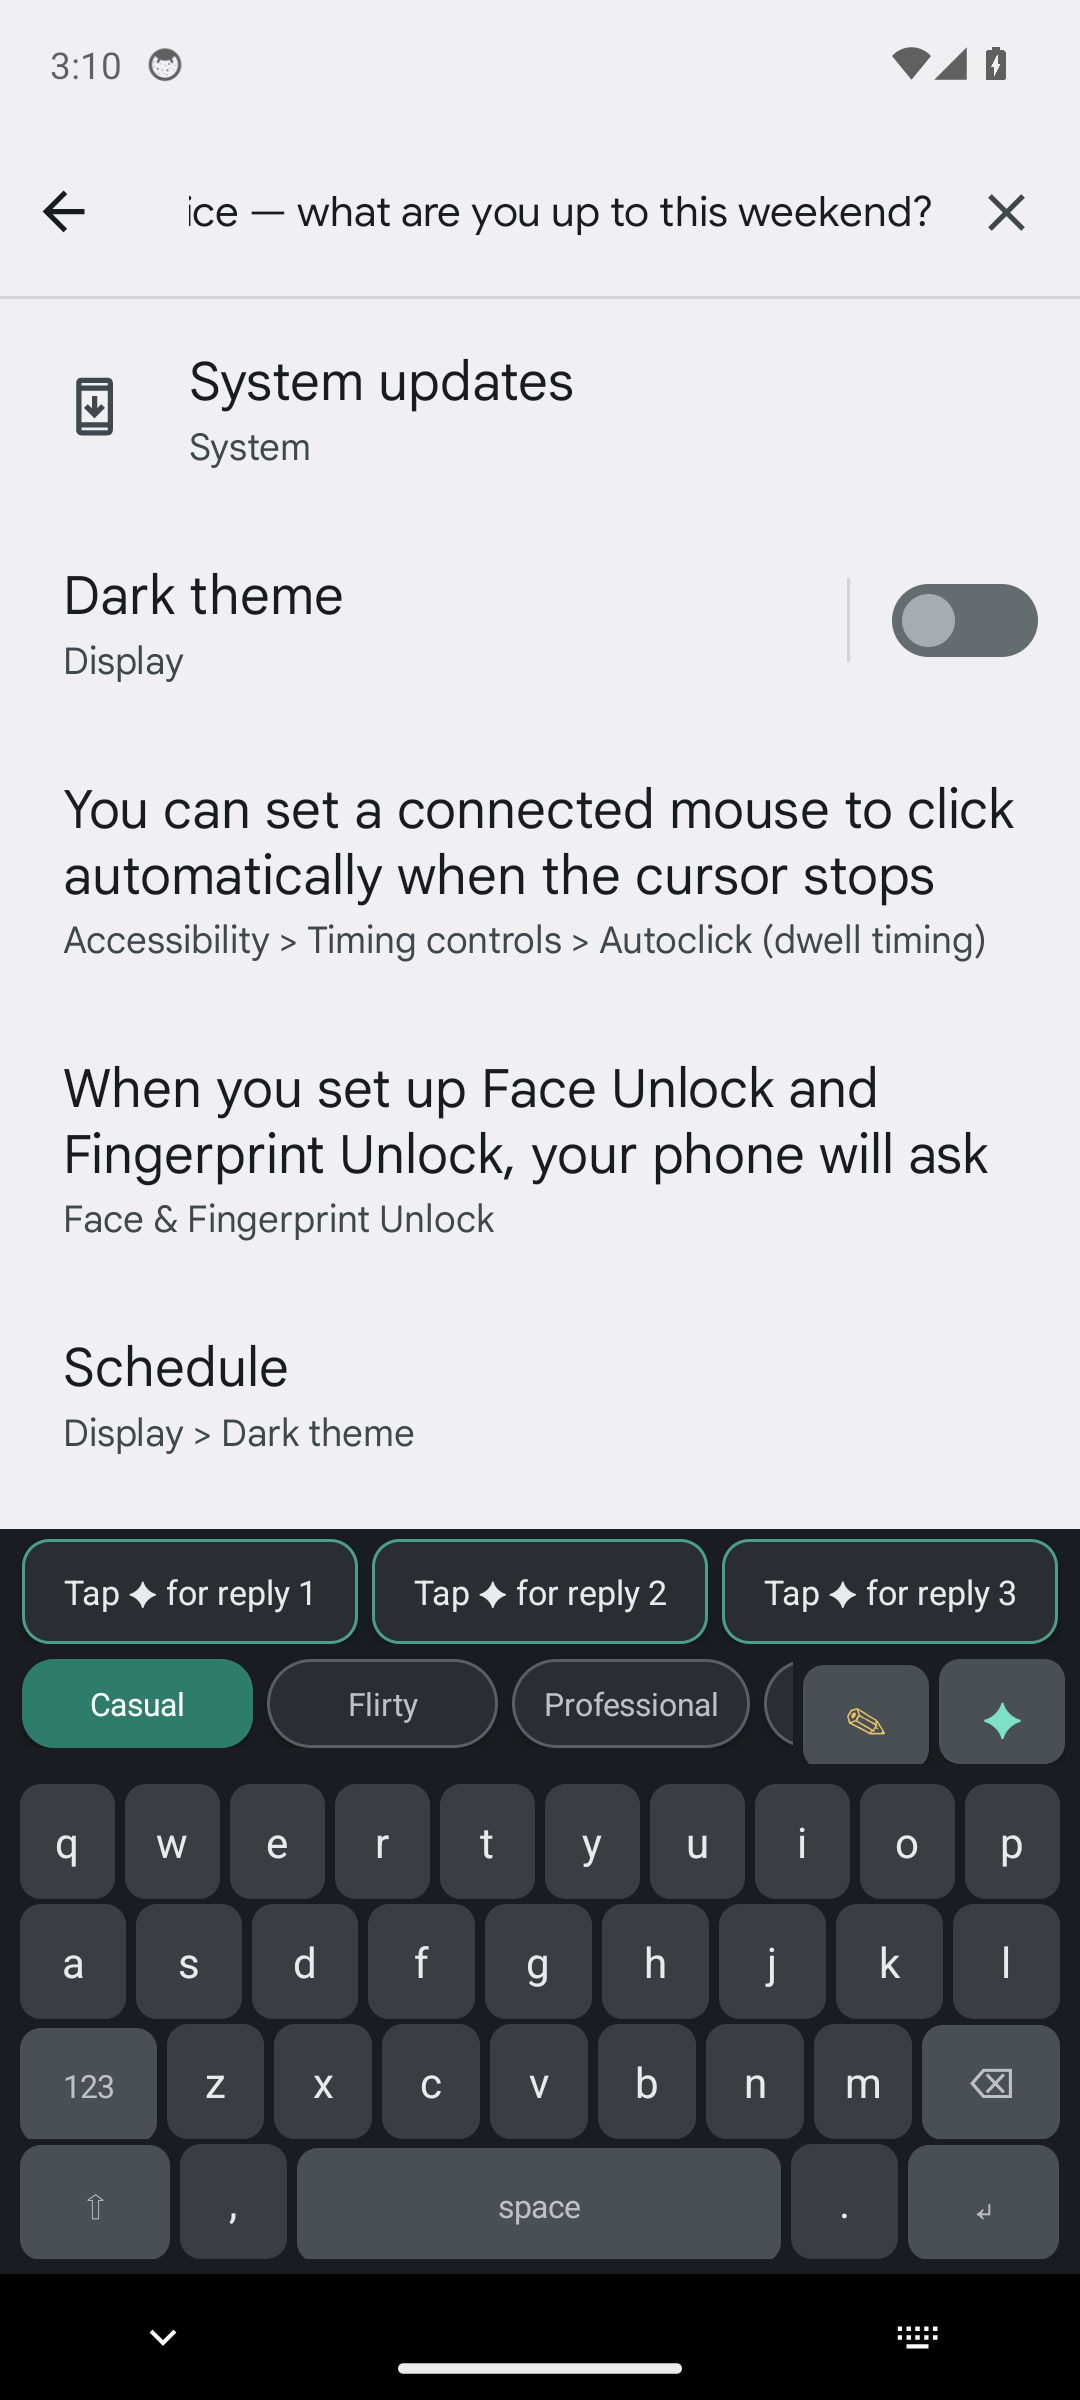
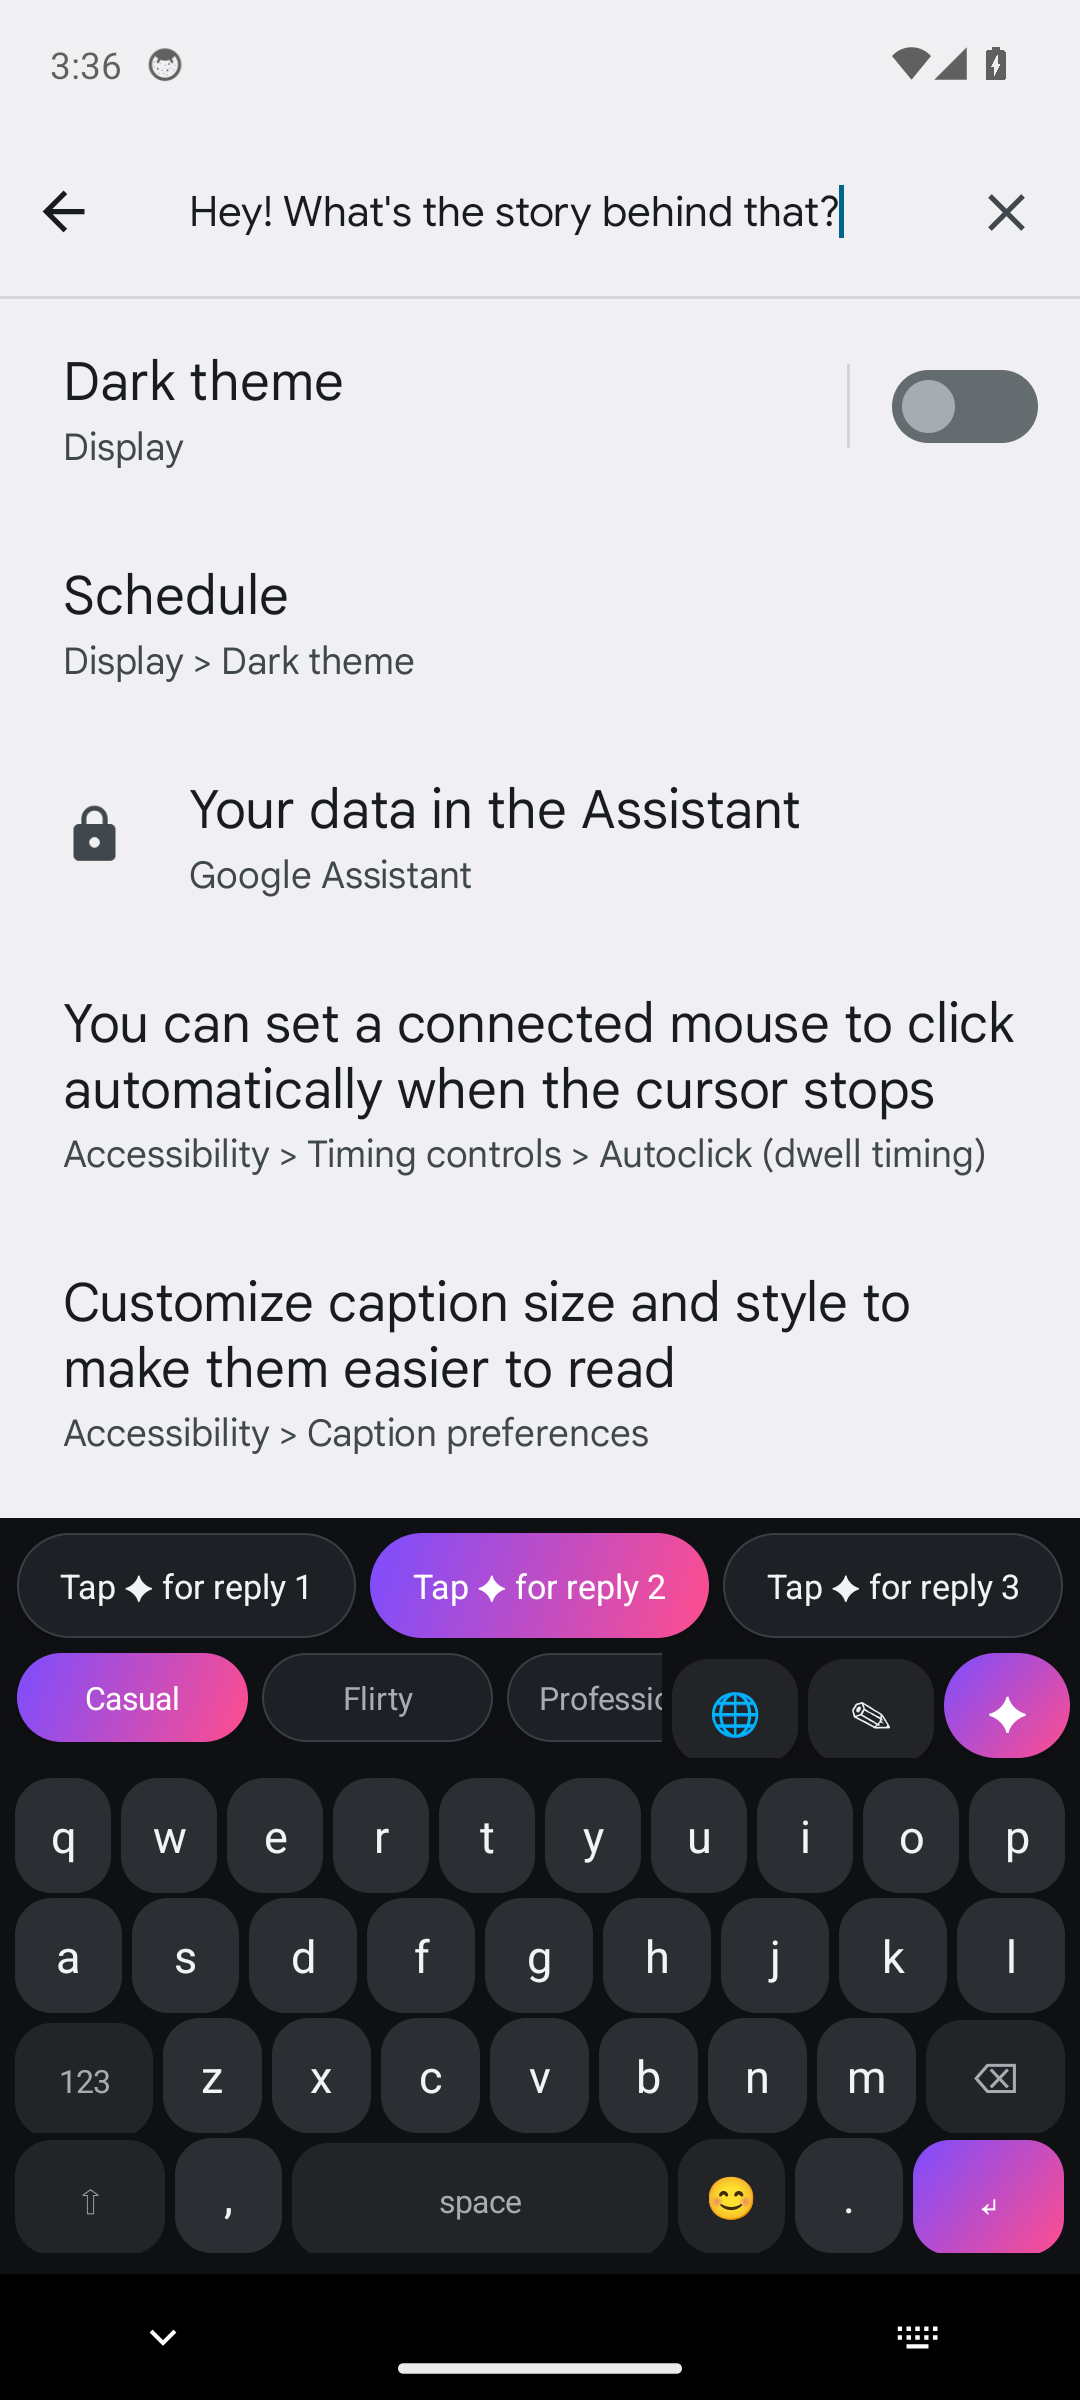
Rizz/Gboard keyboard redesign: neon gradient theme, ripple keys, highlighted suggestions
- Near-black theme with rounded keys and press ripples (Gboard structure)
- Violet-to-pink gradient on enter, shift-active, selected tone chip,
  generate button, and the middle suggestion chip
- Glassy outline pills for secondary chips and suggestions

diff --git a/AIReplyKeyboard/app/src/main/java/com/aireply/keyboard/ime/AiKeyboardService.kt b/AIReplyKeyboard/app/src/main/java/com/aireply/keyboard/ime/AiKeyboardService.kt
@@ -43,6 +43,64 @@ class AiKeyboardService : InputMethodService() {
         listOf("✨", "🎉", "🌹", "☕", "🍕", "🎮", "⚽", "🎧", "📸", "💀", "🤡")
     )
 
+    // ── Rizz/Gboard theme ────────────────────────────────────────────────────
+    private val KB_BG = 0xFF0F1013.toInt()
+    private val KEY_BG = 0xFF2D2E33.toInt()
+    private val SPECIAL_BG = 0xFF232428.toInt()
+    private val CHIP_BG = 0xFF1E2025.toInt()
+    private val CHIP_STROKE = 0xFF3A3D45.toInt()
+    private val TEXT = 0xFFF2F3F5.toInt()
+    private val TEXT_DIM = 0xFFA8ABB2.toInt()
+    private val ACCENT1 = 0xFF7C4DFF.toInt()   // violet
+    private val ACCENT2 = 0xFFFF4D8D.toInt()   // pink
+
+    private fun dp(v: Float): Float = v * resources.displayMetrics.density
+
+    /** Rounded key background with press ripple, Gboard-style. */
+    private fun keyBackground(fill: Int): android.graphics.drawable.Drawable {
+        val shape = android.graphics.drawable.GradientDrawable().apply {
+            setColor(fill)
+            cornerRadius = dp(14f)
+        }
+        val mask = android.graphics.drawable.GradientDrawable().apply {
+            setColor(0xFFFFFFFF.toInt())
+            cornerRadius = dp(14f)
+        }
+        return android.graphics.drawable.RippleDrawable(
+            android.content.res.ColorStateList.valueOf(0x30FFFFFF), shape, mask
+        )
+    }
+
+    /** Gradient pill (violet → pink) with ripple — primary actions and accents. */
+    private fun gradientBackground(cornerDp: Float = 14f): android.graphics.drawable.Drawable {
+        val shape = android.graphics.drawable.GradientDrawable(
+            android.graphics.drawable.GradientDrawable.Orientation.TL_BR,
+            intArrayOf(ACCENT1, ACCENT2)
+        ).apply { cornerRadius = dp(cornerDp) }
+        val mask = android.graphics.drawable.GradientDrawable().apply {
+            setColor(0xFFFFFFFF.toInt())
+            cornerRadius = dp(cornerDp)
+        }
+        return android.graphics.drawable.RippleDrawable(
+            android.content.res.ColorStateList.valueOf(0x40FFFFFF), shape, mask
+        )
+    }
+
+    private fun outlineBackground(): android.graphics.drawable.Drawable {
+        val shape = android.graphics.drawable.GradientDrawable().apply {
+            setColor(CHIP_BG)
+            cornerRadius = dp(22f)
+            setStroke(dp(1f).toInt(), CHIP_STROKE)
+        }
+        val mask = android.graphics.drawable.GradientDrawable().apply {
+            setColor(0xFFFFFFFF.toInt())
+            cornerRadius = dp(22f)
+        }
+        return android.graphics.drawable.RippleDrawable(
+            android.content.res.ColorStateList.valueOf(0x28FFFFFF), shape, mask
+        )
+    }
+
     private val accentRows = listOf(
         listOf('q', 'w', 'e', 'r', 't', 'y', 'u', 'i', 'o', 'p'),
         listOf('a', 's', 'd', 'f', 'g', 'h', 'j', 'k', 'l'),
@@ -99,21 +157,21 @@ class AiKeyboardService : InputMethodService() {
 
         root = LinearLayout(this).apply {
             orientation = LinearLayout.VERTICAL
-            setBackgroundColor(0xFF191C20.toInt())
-            setPadding(px(6), px(4), px(6), px(6))
+            setBackgroundColor(KB_BG)
+            setPadding(px(4), px(6), px(4), px(8))
         }
 
-        // --- Suggestion row: three AI replies ---
+        // --- Suggestion row: three AI replies (middle one highlighted, Gboard-style) ---
         val suggestionRow = LinearLayout(this).apply { orientation = LinearLayout.HORIZONTAL }
         suggestionButtons = (0 until 3).map { index ->
             Button(this).apply {
-                background = getDrawableSafe(com.aireply.keyboard.R.drawable.bg_suggestion)
-                setTextColor(0xFFE8EAED.toInt())
+                background = if (index == 1) gradientBackground(cornerDp = 20f) else outlineBackground()
+                setTextColor(if (index == 1) 0xFFFFFFFF.toInt() else TEXT)
                 textSize = 13f
                 isAllCaps = false
                 setSingleLine()
                 ellipsize = TextUtils.TruncateAt.END
-                setPadding(px(8), px(6), px(8), px(6))
+                setPadding(px(10), px(6), px(10), px(6))
                 gravity = Gravity.CENTER
                 layoutParams = LinearLayout.LayoutParams(0, px(40), 1f).apply {
                     setMargins(px(3), 0, px(3), 0)
@@ -144,30 +202,31 @@ class AiKeyboardService : InputMethodService() {
         Tone.entries.forEach { t ->
             chipRow.addView(makeChip(t, px))
         }
+        styleChips()
         chipScroll.addView(chipRow)
         toneRow.addView(chipScroll)
 
         toneRow.addView(Button(this).apply {
             text = "🌐"
             textSize = 16f
-            background = getDrawableSafe(com.aireply.keyboard.R.drawable.bg_key_special)
-            setTextColor(0xFFBDC1C6.toInt())
+            background = keyBackground(SPECIAL_BG)
+            setTextColor(TEXT_DIM)
             layoutParams = LinearLayout.LayoutParams(px(48), px(40)).apply { setMargins(px(4), 0, 0, 0) }
             setOnClickListener { switchToNextInputMethod(false) }
         })
         toneRow.addView(Button(this).apply {
             text = "✎"
             textSize = 16f
-            background = getDrawableSafe(com.aireply.keyboard.R.drawable.bg_key_special)
-            setTextColor(0xFFE8C468.toInt())
+            background = keyBackground(SPECIAL_BG)
+            setTextColor(TEXT)
             layoutParams = LinearLayout.LayoutParams(px(48), px(40)).apply { setMargins(px(4), 0, 0, 0) }
             setOnClickListener { rewriteDraft() }
         })
         toneRow.addView(Button(this).apply {
             text = "✦"
             textSize = 18f
-            background = getDrawableSafe(com.aireply.keyboard.R.drawable.bg_key_special)
-            setTextColor(0xFF7FE0C8.toInt())
+            background = gradientBackground(cornerDp = 20f)
+            setTextColor(0xFFFFFFFF.toInt())
             layoutParams = LinearLayout.LayoutParams(px(48), px(40)).apply { setMargins(px(4), 0, 0, 0) }
             setOnClickListener { generateReplies() }
         })
@@ -186,17 +245,11 @@ class AiKeyboardService : InputMethodService() {
     }
 
     private fun makeChip(t: Tone, px: (Int) -> Int): Button {
-        val selected = t == tone
         return Button(this).apply {
             text = t.label
             tag = t
             textSize = 12f
             isAllCaps = false
-            background = getDrawableSafe(
-                if (selected) com.aireply.keyboard.R.drawable.bg_chip_selected
-                else com.aireply.keyboard.R.drawable.bg_chip
-            )
-            setTextColor(if (selected) 0xFFFFFFFF.toInt() else 0xFFBDC1C6.toInt())
             setSingleLine()
             layoutParams = LinearLayout.LayoutParams(
                 LinearLayout.LayoutParams.WRAP_CONTENT, px(34)
@@ -213,17 +266,14 @@ class AiKeyboardService : InputMethodService() {
         }
     }
 
-    /** Restyles chips in place — no view rebuild, suggestions stay put. */
+    /** Restyles chips in place — selected one gets the gradient, others stay glassy. */
     private fun styleChips() {
         for (i in 0 until chipRow.childCount) {
             val b = chipRow.getChildAt(i) as? Button ?: continue
             val t = b.tag as? Tone ?: continue
             val selected = t == tone
-            b.background = getDrawableSafe(
-                if (selected) com.aireply.keyboard.R.drawable.bg_chip_selected
-                else com.aireply.keyboard.R.drawable.bg_chip
-            )
-            b.setTextColor(if (selected) 0xFFFFFFFF.toInt() else 0xFFBDC1C6.toInt())
+            b.background = if (selected) gradientBackground(cornerDp = 17f) else outlineBackground()
+            b.setTextColor(if (selected) 0xFFFFFFFF.toInt() else TEXT_DIM)
         }
     }
 
@@ -378,9 +428,9 @@ class AiKeyboardService : InputMethodService() {
         }
         return Button(this).apply {
             text = label
-            textSize = 16f
-            background = getDrawableSafe(com.aireply.keyboard.R.drawable.bg_key)
-            setTextColor(0xFFE8EAED.toInt())
+            textSize = 17f
+            background = keyBackground(KEY_BG)
+            setTextColor(TEXT)
             stateListAnimator = null
             layoutParams = LinearLayout.LayoutParams(0, px(44), weight).apply { setMargins(px(2), px(2), px(2), px(2)) }
             setOnClickListener {
@@ -408,7 +458,7 @@ class AiKeyboardService : InputMethodService() {
         return Button(this).apply {
             text = emoji
             textSize = 18f
-            background = getDrawableSafe(com.aireply.keyboard.R.drawable.bg_key)
+            background = keyBackground(KEY_BG)
             stateListAnimator = null
             layoutParams = LinearLayout.LayoutParams(0, px(44), 1f).apply { setMargins(px(2), px(2), px(2), px(2)) }
             setOnClickListener { currentInputConnection?.commitText(emoji, 1) }
@@ -422,16 +472,16 @@ class AiKeyboardService : InputMethodService() {
         anchor.getLocationOnScreen(location)
         val row = LinearLayout(this).apply {
             orientation = LinearLayout.HORIZONTAL
-            background = ColorDrawable(0xFF2A2D31.toInt())
-            setPadding(px(4), px(4), px(4), px(4))
+            background = ColorDrawable(0xEE1A1B20.toInt())
+            setPadding(px(6), px(6), px(6), px(6))
         }
         variants.forEach { v ->
             row.addView(Button(this).apply {
                 text = v
                 textSize = 18f
                 isAllCaps = false
-                background = getDrawableSafe(com.aireply.keyboard.R.drawable.bg_key_special)
-                setTextColor(0xFFE8EAED.toInt())
+                background = keyBackground(KEY_BG)
+                setTextColor(TEXT)
                 stateListAnimator = null
                 layoutParams = LinearLayout.LayoutParams(px(52), px(52)).apply { setMargins(px(2), 0, px(2), 0) }
                 setOnClickListener {
@@ -457,8 +507,13 @@ class AiKeyboardService : InputMethodService() {
             text = label
             textSize = if (label.length > 2) 12f else 16f
             isAllCaps = false
-            background = getDrawableSafe(com.aireply.keyboard.R.drawable.bg_key_special)
-            setTextColor(0xFFBDC1C6.toInt())
+            // Enter gets the neon gradient; shift lights up when active (Gboard behaviour).
+            background = when {
+                label == "↵" -> gradientBackground(cornerDp = 14f)
+                label == "⇪" -> gradientBackground(cornerDp = 14f)
+                else -> keyBackground(SPECIAL_BG)
+            }
+            setTextColor(if (label == "↵" || label == "⇪") 0xFFFFFFFF.toInt() else TEXT_DIM)
             stateListAnimator = null
             layoutParams = LinearLayout.LayoutParams(0, px(44), weight).apply { setMargins(px(2), px(2), px(2), px(2)) }
             setOnClickListener { action() }
@@ -477,8 +532,6 @@ class AiKeyboardService : InputMethodService() {
             sendDownUpKeyEvents(KeyEvent.KEYCODE_ENTER)
         }
     }
-
-    private fun getDrawableSafe(id: Int) = getDrawable(id)!!
 
     override fun onEvaluateFullscreenMode(): Boolean = false
 
